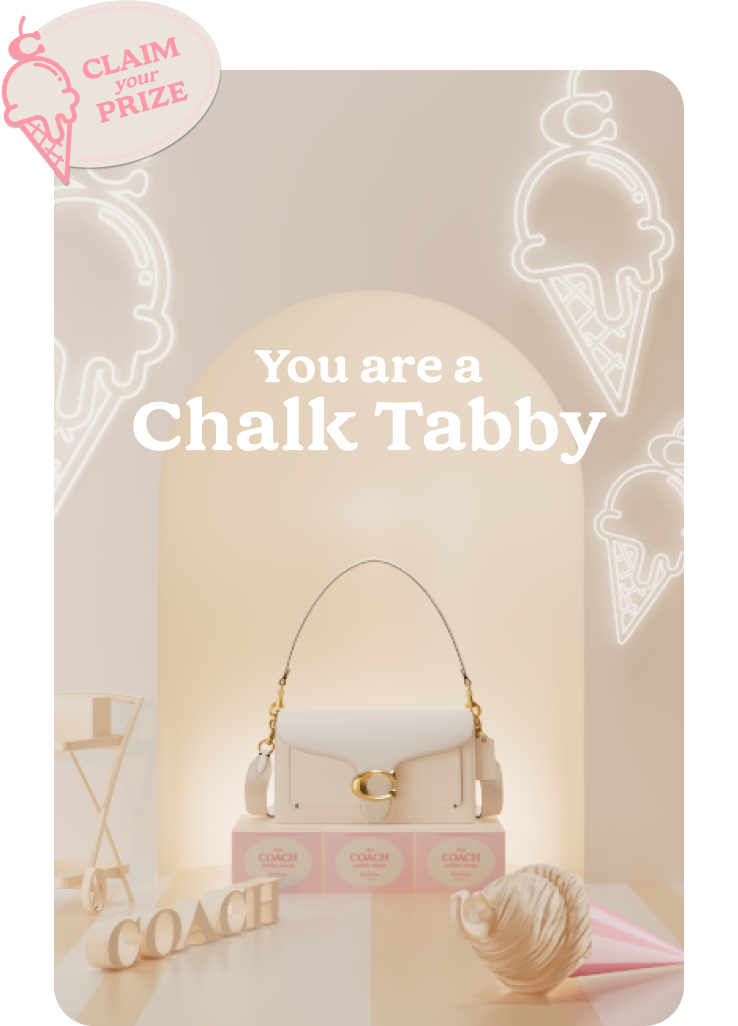
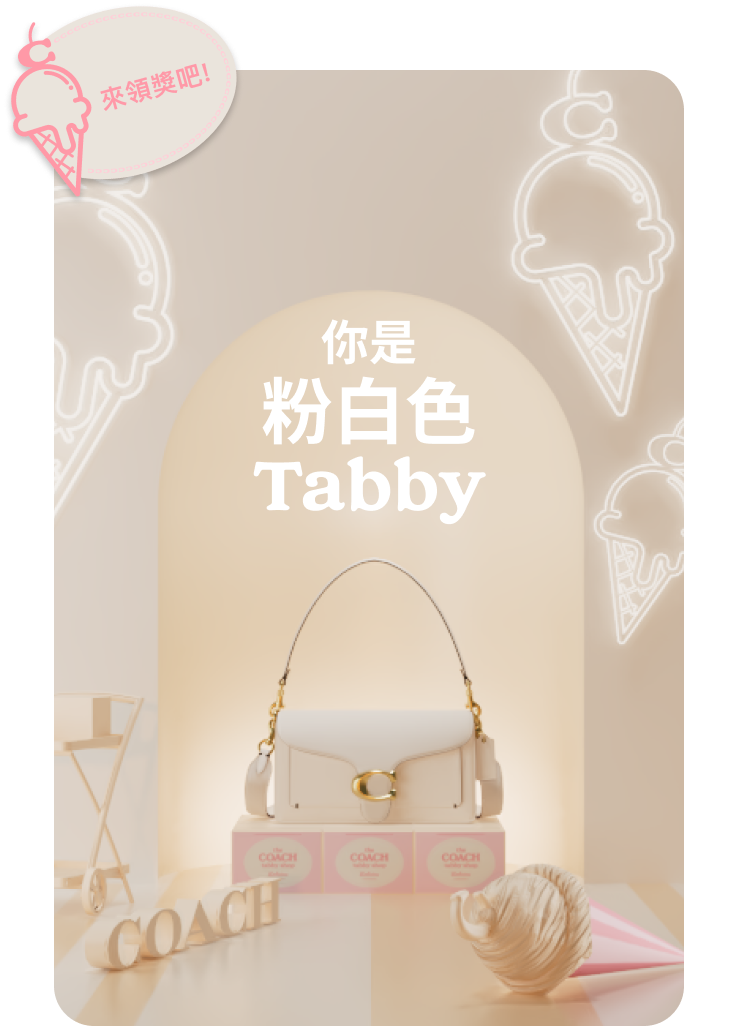
init push

Changed region(s): [[0.1558, 0.3119, 0.8103, 0.5302], [0.0, 0.0, 0.3428, 0.1871]]

diff --git a/src/components/Form.vue b/src/components/Form.vue
@@ -93,7 +93,7 @@
         </div>
         <div class="btn-next">
           <button @click="next" class="loadingBTN">
-            <h4 v-if="!isloading">submit</h4>
+            <h4 v-if="!isloading">開始</h4>
             <div v-if="isloading" class="loader"></div>
           </button>
         </div>
@@ -142,48 +142,43 @@ export default {
     next() {
       this.isloading = true;
       let age = document.querySelector("select");
+      let ageRange = age.options[age.selectedIndex].value;
 
       // window scroll to top
       window.scrollTo(0, 0);
 
-      // if (this.phone === "" || this.name === "") {
-      //   alert("Please fill in your name and mobile and name to proceed.");
-      //   this.isloading = false;
-      //   return;
-      // }
+      if (this.phone === "" || this.name === "") {
+        alert("Please fill in your name and mobile and name to proceed.");
+        this.isloading = false;
+        return;
+      }
 
-      // if (!document.querySelector("#terms").checked) {
-      //   alert("Please check the Terms and Conditions box to proceed.");
-      //   this.isloading = false;
-      //   return;
-      // }
-      // // us number length check
-      // if (this.phone.length < 10) {
-      //   alert("Please enter a valid mobile number.");
-      //   this.isloading = false;
-      //   return;
-      // }
+      if (!document.querySelector("#terms").checked) {
+        alert("Please check the Terms and Conditions box to proceed.");
+        this.isloading = false;
+        return;
+      }
+      // us number length check
+      if (this.phone.length < 10) {
+        alert("Please enter a valid mobile number.");
+        this.isloading = false;
+        return;
+      }
 
-      // if (age.value === "") {
-      //   alert("Please select your age range.");
-      //   this.isloading = false;
-      //   return;
-      // }
-      // email format check
-      // if (!this.email.includes("@") && !this.email.includes(".")) {
-      //   alert("Please enter a valid email address.");
-      //   this.isloading = false;
-      //   return;
-      // }
+      if (age.value === "") {
+        alert("Please select your age range.");
+        this.isloading = false;
+        return;
+      }
 
       window.localStorage.setItem("name", this.name);
-      window.localStorage.setItem("email", this.email);
+      window.localStorage.setItem("ageRange", ageRange);
       window.localStorage.setItem("phone", this.phone);
 
       // this.$emit("triggerAnimation");
 
       axios
-        .get(process.env.VUE_APP_API_URL_SG + "/", {
+        .get(process.env.VUE_APP_API_URL_SG + "/taiwan", {
           params: {
             name: this.name,
             phone: this.phone,
@@ -241,7 +236,7 @@ export default {
   color: #ff99a7 !important;
   text-align: center;
   font-family: "Cream-Bold";
-  font-size: 2vh;
+  font-size: 1.8vh;
 }
 .input {
   padding: 1.2vh;
@@ -249,7 +244,7 @@ export default {
   border: none;
   font-family: "Cream-Bold";
   color: #ff99a7 !important;
-  font-size: 2vh;
+  font-size: 1.8vh;
   border: none;
   border-radius: 0;
 }
@@ -269,6 +264,7 @@ export default {
   font-size: 1vh;
   color: #ff99a7;
   line-height: 1;
+  letter-spacing: 0.3px;
 }
 #terms {
   width: 50%;

diff --git a/public/index.html b/public/index.html
@@ -2,9 +2,10 @@
 <html lang="">
   <head>
     <!-- Google tag (gtag.js) -->
+    <!-- Google tag (gtag.js) -->
     <script
       async
-      src="https://www.googletagmanager.com/gtag/js?id=G-KK30CTN6S9"
+      src="https://www.googletagmanager.com/gtag/js?id=G-R45WB90SL3"
     ></script>
     <script>
       window.dataLayer = window.dataLayer || [];
@@ -13,7 +14,7 @@
       }
       gtag("js", new Date());
 
-      gtag("config", "G-KK30CTN6S9");
+      gtag("config", "G-R45WB90SL3");
     </script>
 
     <!-- Google Tag Manager -->
@@ -27,7 +28,7 @@
         j.async = true;
         j.src = "https://www.googletagmanager.com/gtm.js?id=" + i + dl;
         f.parentNode.insertBefore(j, f);
-      })(window, document, "script", "dataLayer", "GTM-5FF8KQN");
+      })(window, document, "script", "dataLayer", "GTM-5DVTTX5");
     </script>
     <!-- End Google Tag Manager -->
     <meta charset="utf-8" />
@@ -65,13 +66,13 @@
         font-family: "Cream-Bold";
       }
       h5 {
-        font-size: 1.55vh !important;
+        font-size: 1.7vh !important;
+        letter-spacing: 0.3px;
       }
       h6 {
         margin: 0;
         color: #ff99a7;
         font-family: "Cream-Bold";
-        line-height: 1;
       }
       button,
       h6 {
@@ -81,11 +82,12 @@
       ul h6 {
         font-family: "Cream-Bold";
         font-size: 1.7vh;
+        letter-spacing: 0.5px;
       }
       h2 {
         line-height: 1.1;
         margin-top: 0;
-        font-size: 2.6vh;
+        font-size: 2.4vh;
         font-family: "Cream-Bold";
         color: #ff99a7 !important;
         margin-bottom: 1vh;
@@ -223,9 +225,10 @@
     <div id="app"></div>
     <!-- built files will be auto injected -->
     <!-- Google Tag Manager (noscript) -->
+    <!-- Google Tag Manager (noscript) -->
     <noscript
       ><iframe
-        src="https://www.googletagmanager.com/ns.html?id=GTM-5FF8KQN"
+        src="https://www.googletagmanager.com/ns.html?id=GTM-5DVTTX5"
         height="0"
         width="0"
         style="display: none; visibility: hidden"

diff --git a/src/components/Result.vue b/src/components/Result.vue
@@ -149,7 +149,7 @@
             id="shareButton"
             :style="`width : ${innerWidth * 0.45}px`"
           >
-            <h4 v-if="!isloading">SHARE THE VIDEO</h4>
+            <h4 v-if="!isloading">分享測驗結果</h4>
             <div v-if="isloading" class="loader tosmall"></div>
           </button>
         </div>
@@ -160,7 +160,7 @@
             :style="`width : ${innerWidth * 0.45}px`"
             @click="toshop"
           >
-            SHOP TABBY
+            選購 Tabby
           </button>
         </div>
         <div class="block" :style="`height : ${innerHeight * 0.025}px`" />
@@ -170,7 +170,7 @@
             :style="`width : ${innerWidth * 0.45}px`"
             @click="restart"
           >
-            PLAY AGAIN
+            再測一次
           </button>
         </div>
       </div>
@@ -350,10 +350,11 @@ export default {
     current: {
       handler: function (newVal, oldVal) {
         if (newVal === 11) {
-          axios.get(process.env.VUE_APP_API_URL_SG + "-collect", {
+          axios.get(process.env.VUE_APP_API_URL_SG + "/taiwan", {
             params: {
-              email: window.localStorage.getItem("name"),
+              name: window.localStorage.getItem("name"),
               phone: window.localStorage.getItem("phone"),
+              ageRange: window.localStorage.getItem("ageRange"),
               output_color: this.output_color,
             },
           });

diff --git a/src/components/Page4.vue b/src/components/Page4.vue
@@ -128,7 +128,7 @@
         </div>
         <div class="block" :style="`height : ${innerHeight * 0.01}px`" />
         <div class="btn-next">
-          <button @click="next">back</button>
+          <button @click="next">返回</button>
         </div>
       </div>
     </transition>

diff --git a/src/components/Page1.vue b/src/components/Page1.vue
@@ -56,5 +56,9 @@ export default {
   border: none;
   color: white;
   border-radius: 20px;
+  letter-spacing: 2px;
+}
+.loadingBTN {
+  letter-spacing: 2px;
 }
 </style>
